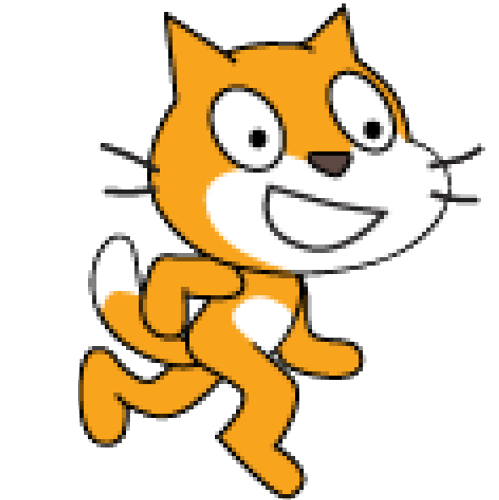
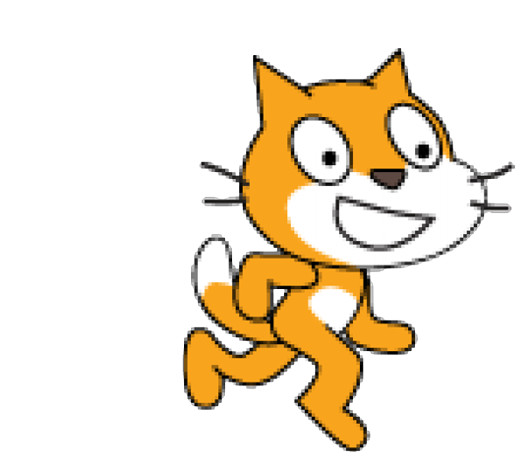
fixing cat pic

diff --git a/oop2_ex04/include/Macros.h b/oop2_ex04/include/Macros.h
@@ -50,6 +50,9 @@ const int HALF_BOARD_DIS = (BOARD_LEN / 2) * CIRCLE_DISTANCE;
 const sf::Vector2f CAT_START_POS= { EVEN_DISTANCE+ HALF_BOARD_DIS, 150+ HALF_BOARD_DIS };
 
 const sf::Vector2f BUTTONS_SCALE = { 0.08f, 0.08f };
+const sf::Vector2f MOVING_OBJ_SCALE = { 0.1f, 0.1f };
+
+
 
 //direction data
 const sf::Vector2i EVEN_DVec[] = {{0,-1}, {0,1}, {-1,-1}, {-1,0},{1,-1},{1,0}};

diff --git a/oop2_ex04/src/Cat.cpp b/oop2_ex04/src/Cat.cpp
@@ -34,7 +34,7 @@ Cat::Cat()
 {
 	auto m_pTexture = FileManager::p2FileManager().getCatTexture();
 	m_sprite.setTexture(*m_pTexture);
-	m_sprite.scale(BUTTONS_SCALE);
+	m_sprite.scale(MOVING_OBJ_SCALE);
 }
 
 
